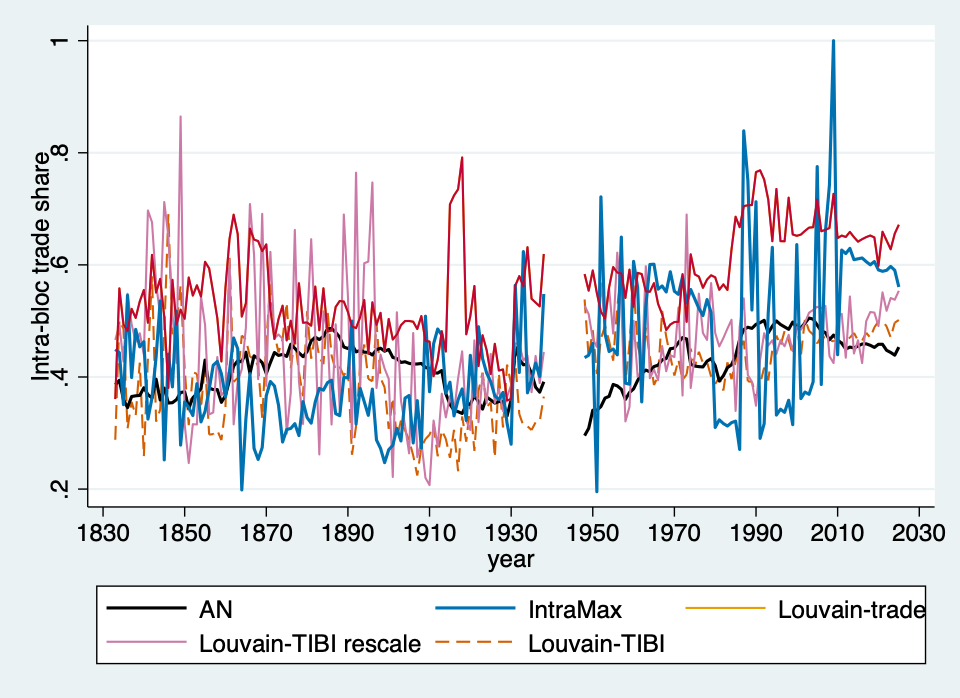
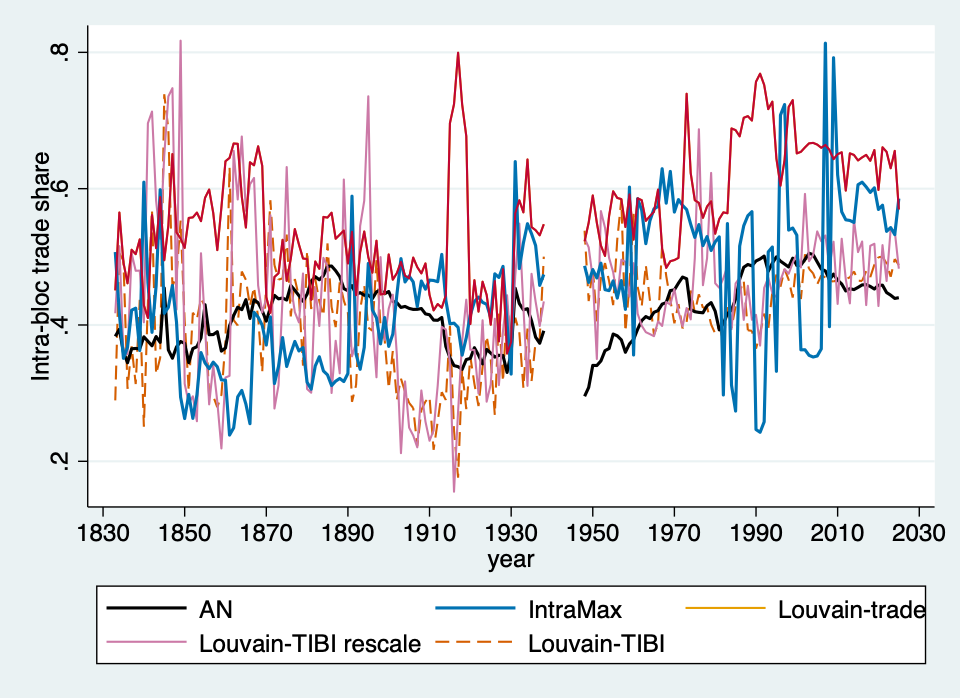
[Métriques] re-run avec le nouvel intra-max
documentation

diff --git a/scripts/Replication path.md b/scripts/Replication path.md
@@ -199,10 +199,6 @@ Avec `Pour paires intra-bloc.do`
 Donne "results/communities/intra_bloc_pairs_YYYY.dta"
 
 
-
-
-
-
 ## Métriques
 
 
@@ -228,7 +224,7 @@ Corrélations avec `scripts/Ghallada/RegionalTradeintensityYear.R` (faire un scr
 Cela donne `results/communities/cor_intramax_louvain.csv, corr_intramax_louvain.png`
 ### Commerce intrabloc (Guillaume)
 À partir de "results/communities/intra_bloc_pairs_YYYY.dta" et "results/gravity/gravity_year'.csv"
-Avec `Pour part commerce intra-bloc.do`
+Avec "scripts/daudin/Pour part commerce intra-bloc.do"
 Produit : `results/bloc_study/intra_block_share.csv/dta` et
 `results/bloc_study/Intra-block trade share.png`
 ### Cartes (Youssef)
